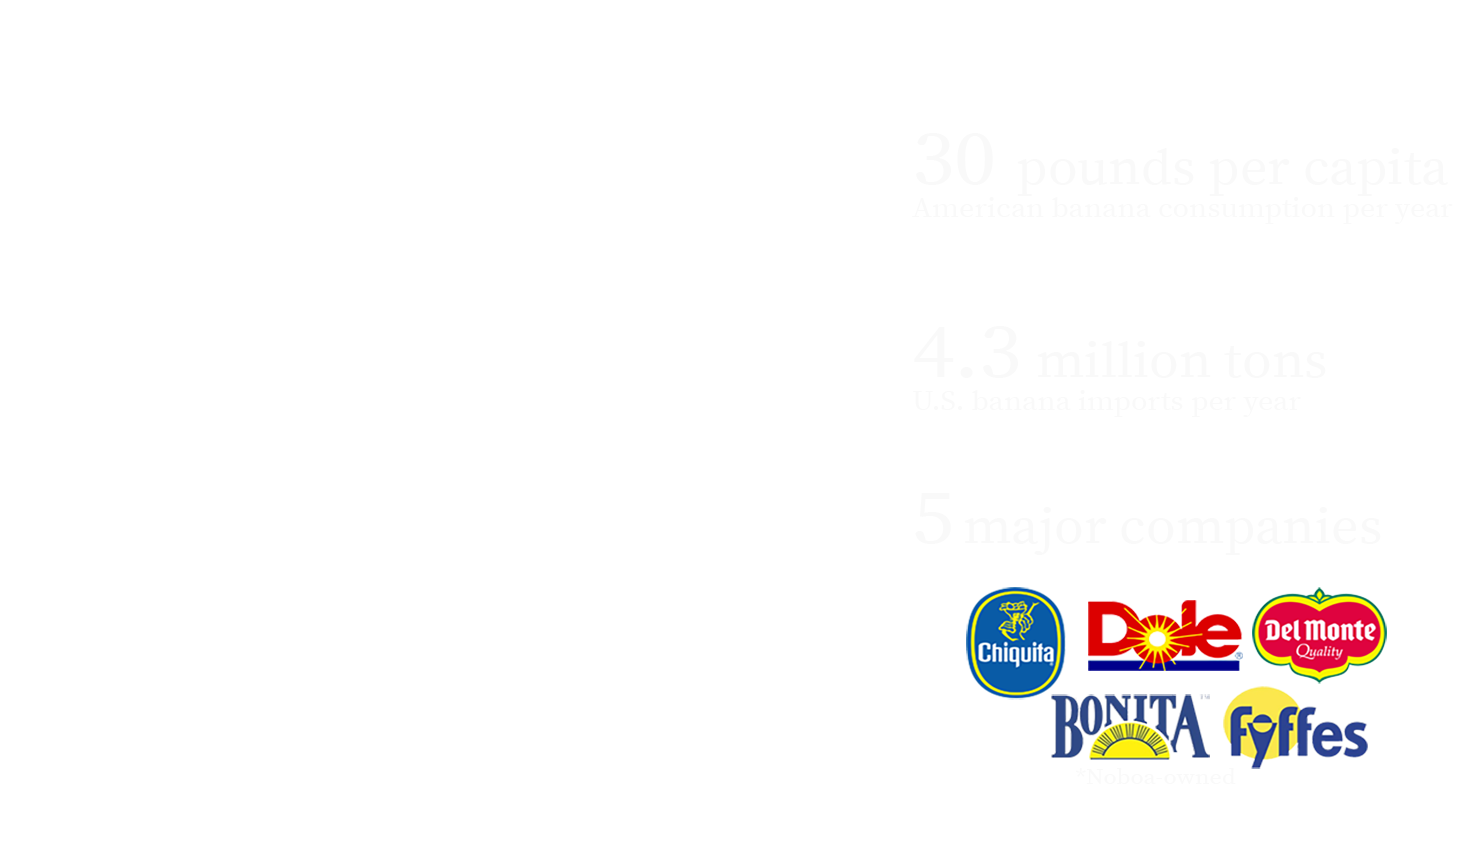
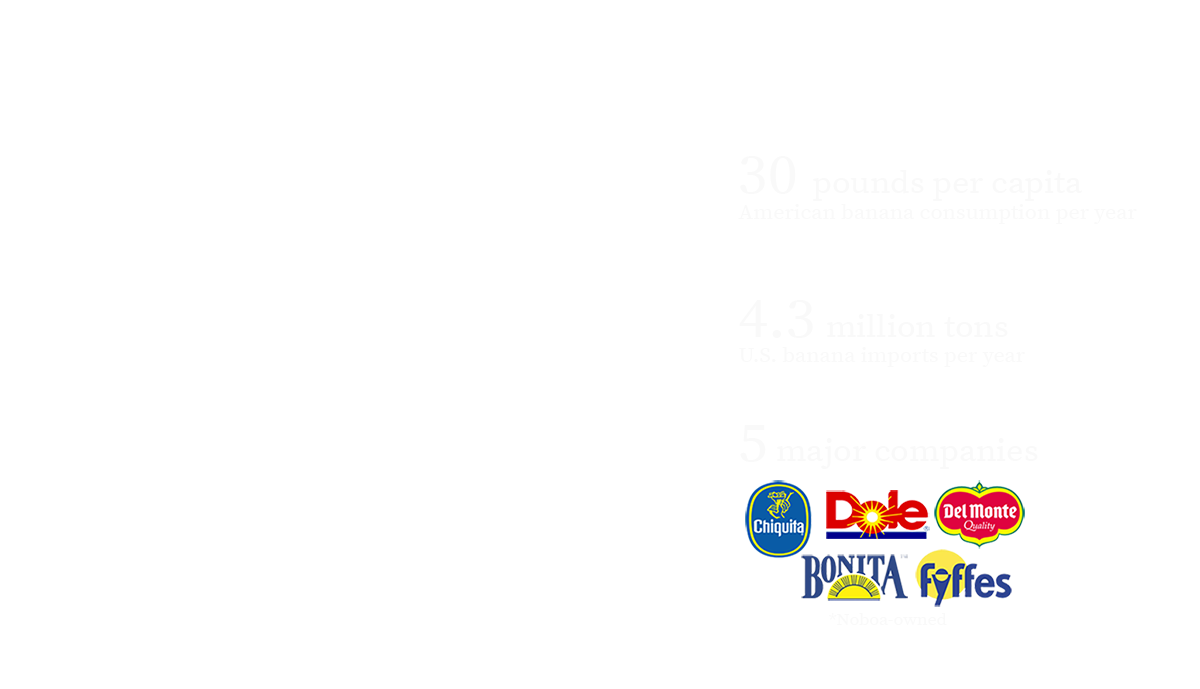
Font changes, but can be overwritten

Changed region(s): [[0.6167, 0.6705, 0.9558, 0.9144]]

diff --git a/css/main.css b/css/main.css
@@ -9,46 +9,51 @@
         padding: 0;
     }
 	* {
-		font-family: 'Source Serif Pro', serif;
+		font-family: 'Mate', serif;
 	}
 
-	h1 {
+h1 {
+	font-family: Mate;
 	font-size: 50px;
 	font-style: normal;
+	font-variant: normal;
 	font-weight: bold;
-	line-height: 38.5px;
+	line-height: 45px;
 	color: rgba(164, 193, 108, 0.9);
-	}
-
-	h3 {
-	font-size: 20px;
-	font-style: normal;
-	font-weight: 100;
-	line-height: 22px;
-	color: #fff);
-	}
-	
-	p {
-	font-size: 15.5px;
-	font-style: normal;
-	font-weight: 100;
-	line-height: 22.8571434020996px;
-	}
-
-	blockquote {
-	font-size: 24px;
+}
+h3 {
+	font-family: Mate;
+	font-size: 25px;
 	font-style: normal;
 	font-variant: normal;
 	font-weight: 400;
-	line-height: 34.2857170104981px;
-	}
-
-	pre {
+	line-height: 25px;
+	color: #fff;
+}
+p {
+	font-family: Mate;
+	font-size: 17px;
+	font-style: normal;
+	font-variant: normal;
+	font-weight: 100;
+	line-height: 22.3999996185303px;
+}
+blockquote {
+	font-family: Mate;
+	font-size: 24px;
+	font-style: normal;
+	font-variant: normal;
+	font-weight: 100;
+	line-height: 33.5999984741211px;
+}
+pre {
+	font-family: Mate;
 	font-size: 11px;
 	font-style: normal;
 	font-variant: normal;
 	font-weight: 400;
 	line-height: 23px;
+
 }
 
 	.firstcharacter {
@@ -144,7 +149,7 @@
 		color: rgba(164, 193, 108, 0.9);
 		font-weight: bold;
 		font-size: 30px;
-		font-family: "Source Serif Pro", serif;
+		font-family: "Mate", serif;
 		line-height: 40px;
 	}
 	.read p,

diff --git a/index.html b/index.html
@@ -19,6 +19,11 @@
     <script src="js/vendor/video-js/video.js"></script>
     <script>videojs.options.flash.swf = "js/vendor/video-js/video-js.swf"</script>
     
+    <link rel="stylesheet" type="text/css" href="//fonts.googleapis.com/css?family=Mate" /><link rel='stylesheet' href='//fonts.googleapis.com/css?family=Mate' type='text/css' />
+    <link rel='stylesheet' href='//fonts.googleapis.com/css?family=Mate' type='text/css' />
+    <link rel='stylesheet' href='//fonts.googleapis.com/css?family=Mate' type='text/css' />
+    <link rel='stylesheet' href='//fonts.googleapis.com/css?family=Mate' type='text/css' />
+    <link rel='stylesheet' href='//fonts.googleapis.com/css?family=Mate' type='text/css' />
 
     </head>
     <body>
